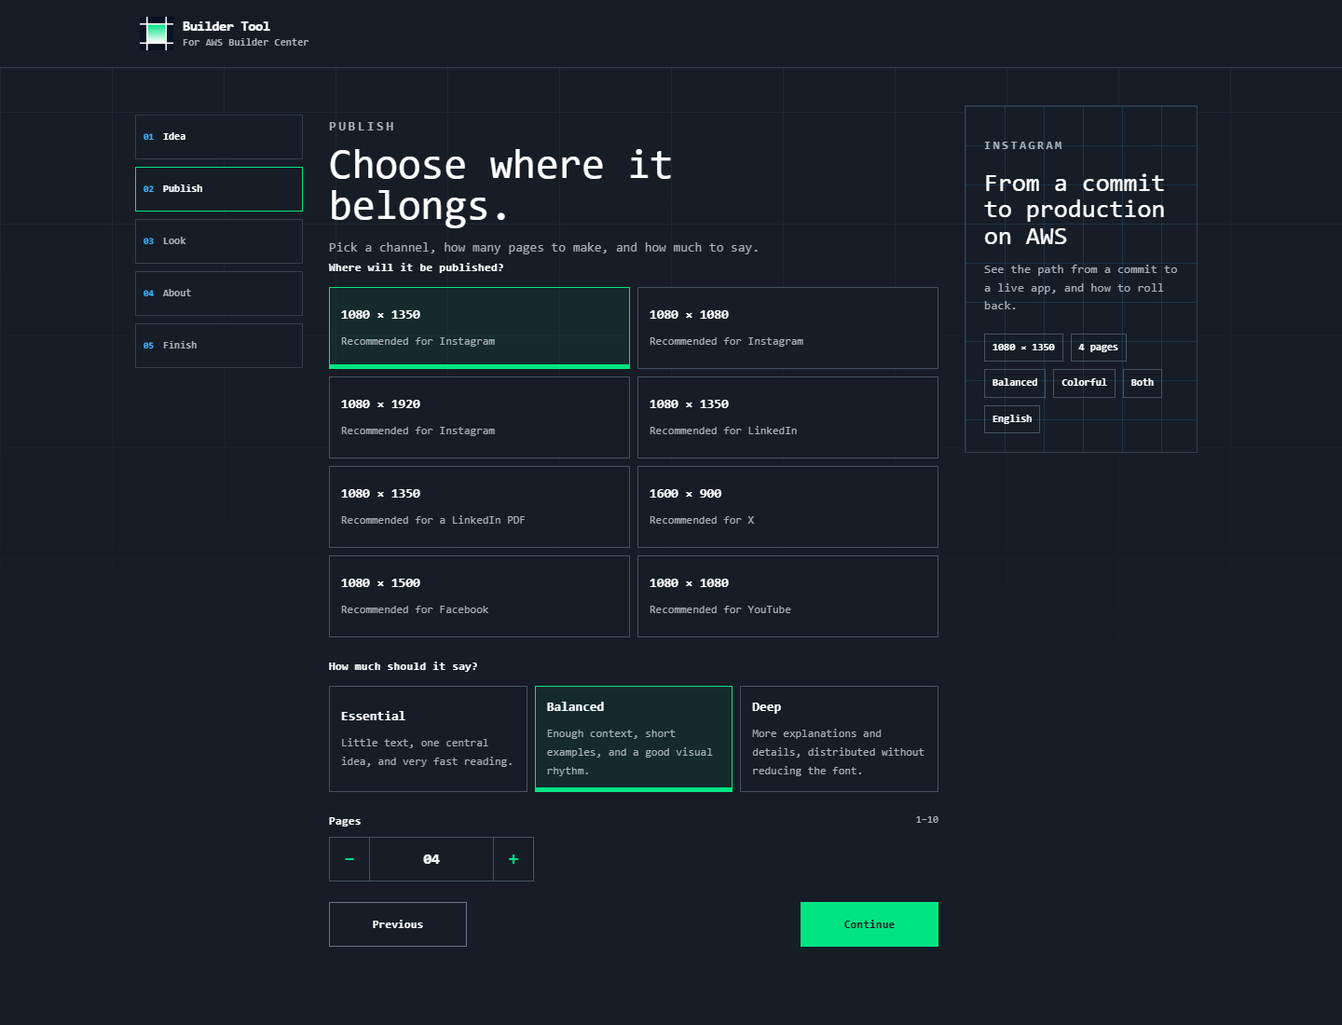
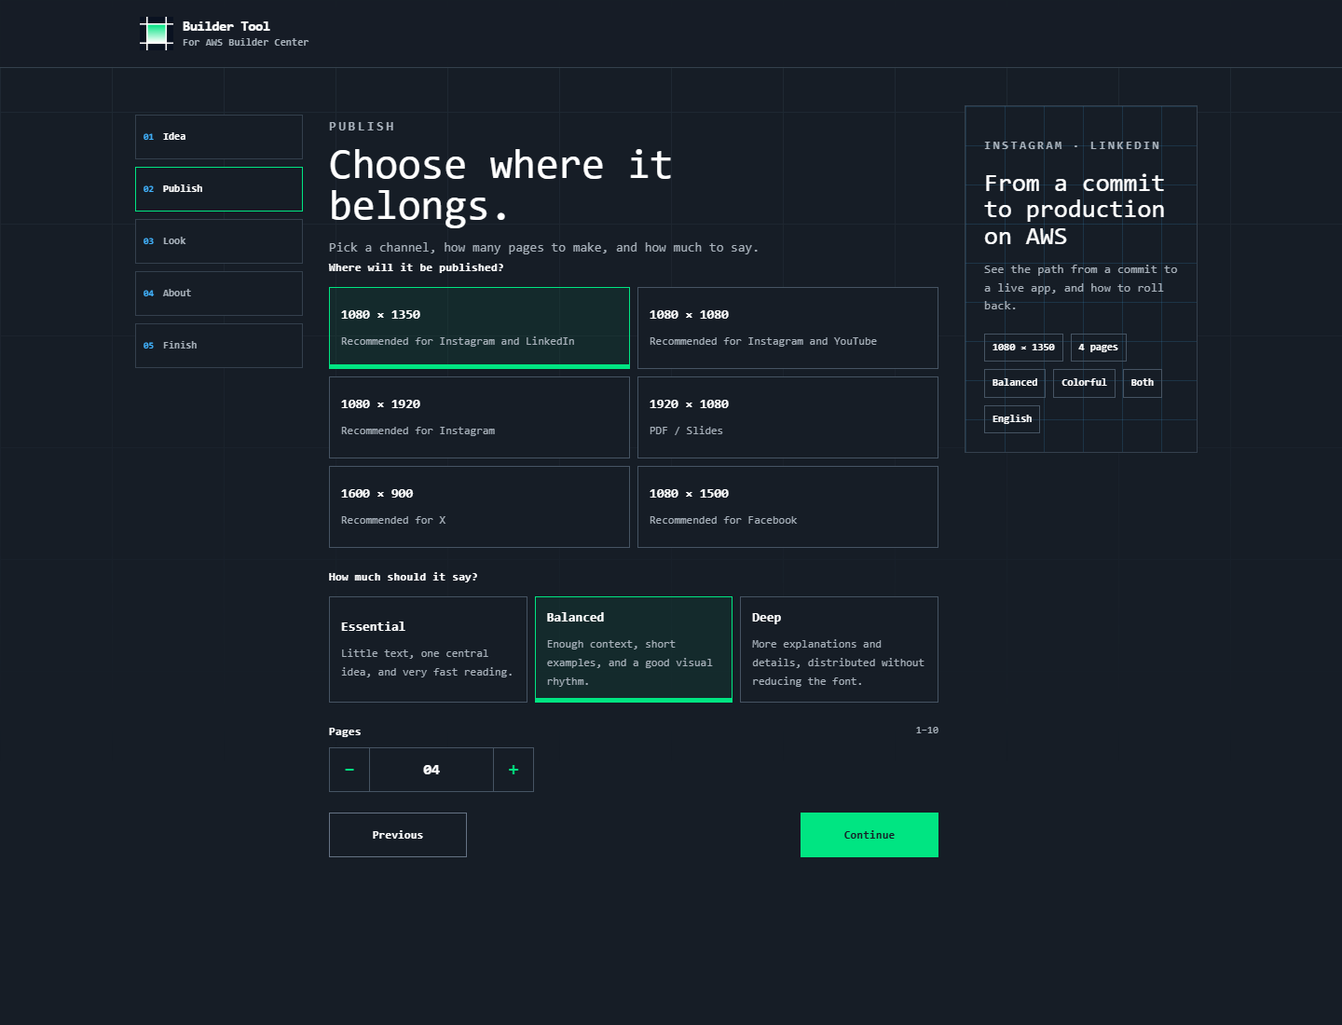
feat: new resolution, and notes

diff --git a/web/src/index.css b/web/src/index.css
@@ -67,6 +67,8 @@ button:disabled { cursor: not-allowed; opacity: .48; }
   padding: 10px 20px;
 }
 .header-actions { display: flex; flex-wrap: wrap; align-items: center; justify-content: flex-end; gap: 8px; }
+.header-github { display: inline-flex; align-items: center; min-height: 40px; padding: 0 12px; color: #fff; font-size: 12px; font-weight: 800; text-decoration: none; }
+.header-github:hover, .header-github:focus-visible { color: #00e582; outline: 0; }
 .header-cta { display: none; }
 .header-actions .button-secondary { min-height: 40px; }
 .cost-card { border: 1px solid #465463; border-left: 4px solid #ff9900; background: #1d2631; padding: 16px; }
@@ -266,25 +268,22 @@ input:focus, textarea:focus, select:focus { border-color: #00e582 !important; bo
 .generated-card figcaption span:first-child { color: #00e582; font-weight: 900; }
 
 .image-viewer { position: fixed; inset: 0; z-index: 100; display: grid; place-items: center; overflow: auto; background: rgba(0, 0, 0, .84); padding: 20px; backdrop-filter: blur(3px); }
-.viewer-grid { display: grid; width: fit-content; max-width: 100%; height: auto; max-height: calc(100vh - 40px); min-height: 0; grid-template-columns: minmax(0, max-content) 220px; grid-template-rows: auto auto auto; border: 1px solid #465463; background: #10161e; box-shadow: 16px 16px 0 rgba(0, 0, 0, .28); }
+.viewer-grid { display: grid; width: fit-content; max-width: 100%; height: auto; max-height: calc(100vh - 40px); min-height: 0; grid-template-columns: minmax(0, max-content); grid-template-rows: auto auto auto; border: 1px solid #465463; background: #10161e; box-shadow: 16px 16px 0 rgba(0, 0, 0, .28); }
 .viewer-header { grid-column: 1 / -1; display: flex; align-items: center; justify-content: space-between; gap: 20px; border-bottom: 1px solid #34404d; background: #161d26; padding: 14px 16px 14px 20px; }
 .viewer-filename { margin-top: 5px; color: #aab3bd; font-size: 11px; overflow-wrap: anywhere; }
 .viewer-close { display: grid; width: 44px; height: 44px; flex: 0 0 auto; place-items: center; border: 1px solid #ff57e9; background: #ff57e9; color: #161d26; font-size: 29px; font-weight: 900; line-height: 1; }
 .viewer-close:hover, .viewer-close:focus-visible { border-color: #fff; background: #fff; outline: 0; }
-.viewer-stage { display: grid; width: fit-content; max-width: calc(100vw - 300px); min-width: 0; min-height: 0; place-items: center; overflow: hidden; padding: 20px; background-color: #161d26; background-image: linear-gradient(to right, rgba(66,180,255,.11) 1px, transparent 1px), linear-gradient(to bottom, rgba(66,180,255,.11) 1px, transparent 1px); background-size: 90px 90px; }
-.viewer-stage img { display: block; width: auto; height: auto; max-width: min(1200px, calc(100vw - 340px)); max-height: calc(100vh - 190px); object-fit: contain; box-shadow: 8px 8px 0 rgba(0,0,0,.32); }
-.viewer-downloads { min-width: 0; overflow-y: auto; border-left: 1px solid #34404d; background: #1d2631; padding: 18px 14px; scrollbar-color: #465463 #1d2631; }
-.viewer-download-list { display: grid; gap: 7px; margin-top: 15px; }
-.viewer-download-list a { display: grid; grid-template-columns: auto 1fr auto; align-items: center; gap: 9px; border: 1px solid #465463; padding: 10px; color: #fff; text-decoration: none; font-size: 10px; }
-.viewer-download-list a:hover, .viewer-download-list a:focus-visible, .viewer-download-list .viewer-download-active { border-color: #42b4ff; background: rgba(66,180,255,.09); outline: 0; }
-.viewer-download-list a span:first-child { color: #42b4ff; font-weight: 900; }
-.viewer-download-list a span:last-child { color: #00e582; font-size: 15px; }
-.viewer-navigation { grid-column: 1 / -1; display: grid; grid-template-columns: minmax(120px, 1fr) auto minmax(120px, 1fr); align-items: center; gap: 12px; border-top: 1px solid #34404d; background: #161d26; padding: 12px; }
+.viewer-stage { display: grid; width: fit-content; max-width: calc(100vw - 80px); min-width: 0; min-height: 0; place-items: center; overflow: hidden; padding: 20px; background-color: #161d26; background-image: linear-gradient(to right, rgba(66,180,255,.11) 1px, transparent 1px), linear-gradient(to bottom, rgba(66,180,255,.11) 1px, transparent 1px); background-size: 90px 90px; }
+.viewer-stage img { display: block; width: auto; height: auto; max-width: min(1200px, calc(100vw - 120px)); max-height: calc(100vh - 190px); object-fit: contain; box-shadow: 8px 8px 0 rgba(0,0,0,.32); }
+.viewer-navigation { grid-column: 1 / -1; display: grid; grid-template-columns: minmax(120px, 1fr) auto auto minmax(120px, 1fr); align-items: center; gap: 12px; border-top: 1px solid #34404d; background: #161d26; padding: 12px; }
 .viewer-navigation > span { color: #aab3bd; font-size: 10px; text-align: center; }
 .viewer-navigation button { min-height: 44px; border: 1px solid #465463; background: transparent; color: #fff; font-size: 11px; font-weight: 900; }
 .viewer-navigation button:first-child { justify-self: start; padding: 0 18px; }
 .viewer-navigation button:last-child { justify-self: end; border-color: #00e582; background: #00e582; padding: 0 18px; color: #161d26; }
 .viewer-navigation button:hover:not(:disabled), .viewer-navigation button:focus-visible { border-color: #42b4ff; background: #42b4ff; color: #161d26; outline: 0; }
+.viewer-download { position: relative; display: inline-flex; align-items: center; justify-content: center; gap: 8px; min-height: 44px; border: 1px solid #42b4ff; background: transparent; padding: 0 16px; color: #fff; font-size: 11px; font-weight: 900; text-decoration: none; }
+.viewer-download svg { width: 16px; height: 16px; flex: 0 0 auto; }
+.viewer-download:hover, .viewer-download:focus-visible { border-color: #42b4ff; background: #42b4ff; color: #161d26; outline: 0; }
 
 .gallery-loading { display: grid; grid-template-columns: 1fr; gap: 12px; }
 .gallery-loading p { color: #00e582; font-size: 12px; text-align: center; }
@@ -297,7 +296,10 @@ input:focus, textarea:focus, select:focus { border-color: #00e582 !important; bo
 .download-file b { overflow: hidden; text-overflow: ellipsis; white-space: nowrap; }
 
 .landing, .result-page, .creator-layout { width: min(1180px, 100%); margin: 0 auto; }
-.landing { display: grid; gap: 72px; padding: 48px 20px 80px; }
+.landing { display: grid; gap: 72px; padding: 28px 20px 80px; }
+.landing-top { display: grid; gap: 28px; }
+.home-notice { display: grid; gap: 8px; border: 1px solid #34404d; border-left: 4px solid #42b4ff; background: rgba(29, 38, 49, .92); padding: 16px 18px; }
+.home-notice p:last-child { max-width: 78ch; color: #d5dde4; font-size: 14px; line-height: 1.6; }
 .hero { display: grid; gap: 28px; align-items: stretch; }
 .hero-copy, .mosaic, .mosaic-card { min-width: 0; }
 .page-lede { max-width: 42rem; margin-top: 18px; color: #aab3bd; font-size: 16px; line-height: 1.7; }
@@ -430,15 +432,12 @@ input:focus, textarea:focus, select:focus { border-color: #00e582 !important; bo
   .image-viewer { padding: 0; }
   .viewer-grid { width: 100%; max-height: none; min-height: 100dvh; grid-template-columns: minmax(0, 1fr); grid-template-rows: auto auto auto auto; border: 0; box-shadow: none; }
   .viewer-stage { width: 100%; max-width: 100%; padding: 12px; }
-  .viewer-stage img { max-width: 100%; max-height: calc(100dvh - 245px); }
-  .viewer-downloads { grid-row: 3; display: flex; align-items: center; gap: 12px; overflow-x: auto; border-top: 1px solid #34404d; border-left: 0; padding: 10px 12px; }
-  .viewer-downloads > .eyebrow { flex: 0 0 auto; }
-  .viewer-download-list { display: flex; flex: 0 0 auto; margin: 0; }
-  .viewer-download-list a { min-width: 74px; }
-  .viewer-navigation { grid-row: 4; padding: 10px; }
+  .viewer-stage img { max-width: 100%; max-height: calc(100dvh - 160px); }
+  .viewer-navigation { grid-row: 3; grid-template-columns: 1fr auto 1fr; padding: 10px; }
   .viewer-navigation > span { display: none; }
-  .viewer-navigation { grid-template-columns: 1fr 1fr; }
   .viewer-navigation button { width: 100%; justify-self: stretch !important; }
+  .viewer-download { width: 44px; height: 44px; min-height: 44px; padding: 0; }
+  .viewer-download span { position: absolute; width: 1px; height: 1px; margin: -1px; overflow: hidden; clip: rect(0, 0, 0, 0); white-space: nowrap; }
 }
 
 .mini-button { min-height: 36px; border: 1px solid #465463; background: transparent; padding: 0 12px; color: #fff; font-size: 11px; font-weight: 800; }

diff --git a/web/src/i18n/locales/pt-BR.ts b/web/src/i18n/locales/pt-BR.ts
@@ -13,6 +13,7 @@ const ptBR: Messages = {
     start: 'Começar um post',
     viewPosts: 'Ver posts',
     edit: 'Editar briefing',
+    github: 'GitHub',
   },
   landing: {
     eyebrow: 'Builder Center',
@@ -20,6 +21,8 @@ const ptBR: Messages = {
     lede: 'Transforme um briefing curto em posts prontos para os canais onde você compartilha o que está construindo.',
     start: 'Começar um post',
     note: 'Cinco passos curtos. Nada técnico nesta página.',
+    noticeEyebrow: 'Nota',
+    notice: 'O Builder Tool está aqui para agregar ao AWS Builder Center. Ele não tenta substituir o Builder Center nem copiá-lo. O projeto é feito por participantes do projeto estudantil da AWS no Brasil.',
     unavailable: 'Não dá para criar posts agora.',
     channelsEyebrow: 'Onde publicar',
     channelsTitle: 'Publique onde a conversa já acontece.',
@@ -89,8 +92,8 @@ const ptBR: Messages = {
   publish: {
     where: 'Onde será publicado?',
     whereLabel: 'Formato de publicação',
-    recommended: (channel: string) => `Recomendado para ${channel}`,
-    recommendedPdf: 'Recomendado para PDF no LinkedIn',
+    recommended: (channels: readonly string[]) => `Recomendado para ${channels.length === 2 ? `${channels[0]} e ${channels[1]}` : channels.join(', ')}`,
+    pdfSlides: 'PDF / Slides',
     depth: 'Quanto ele deve dizer?',
     depthLabel: 'Nível de informação',
     pages: 'Páginas',
@@ -103,7 +106,7 @@ const ptBR: Messages = {
     'instagram-square': 'Quadrado',
     'instagram-story': 'Stories',
     'linkedin-portrait': 'Retrato',
-    'linkedin-document': 'Documento PDF',
+    'linkedin-document': 'PDF / Slides',
     'x-landscape': 'Paisagem',
     'facebook-portrait': 'Retrato',
     'youtube-community': 'Comunidade',
@@ -212,7 +215,7 @@ const ptBR: Messages = {
     label: (index: number, total: number) => `Visualizador, imagem ${index} de ${total}`,
     heading: (index: number, total: number) => `Post ${String(index).padStart(2, '0')} / ${String(total).padStart(2, '0')}`,
     close: 'Fechar visualizador',
-    download: 'Baixar imagem',
+    download: 'Baixar',
     downloads: 'Baixar imagens',
     alt: (index: number) => `Post gerado ${index}`,
     back: 'Voltar',

diff --git a/web/src/i18n/locales/en.ts b/web/src/i18n/locales/en.ts
@@ -11,6 +11,7 @@ const en = {
     start: 'Start a post',
     viewPosts: 'View posts',
     edit: 'Edit brief',
+    github: 'GitHub',
   },
   landing: {
     eyebrow: 'Builder Center',
@@ -18,6 +19,8 @@ const en = {
     lede: 'Turn a short brief into a set of posts for the channels where you share what you\'re building.',
     start: 'Start a post',
     note: 'Five short steps. No technical setup on this page.',
+    noticeEyebrow: 'Note',
+    notice: 'Builder Tool is here to add to AWS Builder Center. It does not try to replace Builder Center or to copy it. The project is made by participants of the AWS student project in Brazil.',
     unavailable: 'Creating posts isn\'t available right now.',
     channelsEyebrow: 'Where it can go',
     channelsTitle: 'Publish where the conversation already is.',
@@ -87,8 +90,8 @@ const en = {
   publish: {
     where: 'Where will it be published?',
     whereLabel: 'Publication format',
-    recommended: (channel: string) => `Recommended for ${channel}`,
-    recommendedPdf: 'Recommended for a LinkedIn PDF',
+    recommended: (channels: readonly string[]) => `Recommended for ${channels.length === 2 ? `${channels[0]} and ${channels[1]}` : channels.join(', ')}`,
+    pdfSlides: 'PDF / Slides',
     depth: 'How much should it say?',
     depthLabel: 'Information level',
     pages: 'Pages',
@@ -101,7 +104,7 @@ const en = {
     'instagram-square': 'Square',
     'instagram-story': 'Stories',
     'linkedin-portrait': 'Portrait',
-    'linkedin-document': 'PDF document',
+    'linkedin-document': 'PDF / Slides',
     'x-landscape': 'Landscape',
     'facebook-portrait': 'Portrait',
     'youtube-community': 'Community',
@@ -210,7 +213,7 @@ const en = {
     label: (index: number, total: number) => `Post viewer, image ${index} of ${total}`,
     heading: (index: number, total: number) => `Post ${String(index).padStart(2, '0')} / ${String(total).padStart(2, '0')}`,
     close: 'Close viewer',
-    download: 'Download image',
+    download: 'Download',
     downloads: 'Download images',
     alt: (index: number) => `Generated post ${index}`,
     back: 'Back',

diff --git a/web/src/constants.ts b/web/src/constants.ts
@@ -8,11 +8,24 @@ export const formats: Array<{ value: Platform; dimensions: string; channel: stri
   { value: 'instagram-square', dimensions: '1080 × 1080', channel: 'Instagram' },
   { value: 'instagram-story', dimensions: '1080 × 1920', channel: 'Instagram' },
   { value: 'linkedin-portrait', dimensions: '1080 × 1350', channel: 'LinkedIn' },
-  { value: 'linkedin-document', dimensions: '1080 × 1350', channel: 'LinkedIn' },
+  { value: 'linkedin-document', dimensions: '1920 × 1080', channel: 'LinkedIn' },
   { value: 'x-landscape', dimensions: '1600 × 900', channel: 'X' },
   { value: 'facebook-portrait', dimensions: '1080 × 1500', channel: 'Facebook' },
   { value: 'youtube-community', dimensions: '1080 × 1080', channel: 'YouTube' },
 ]
+
+export const formatChoices: Array<{ id: string; values: Platform[]; dimensions: string; channels: string[]; pdf?: boolean }> = [
+  { id: 'portrait', values: ['instagram-portrait', 'linkedin-portrait'], dimensions: '1080 × 1350', channels: ['Instagram', 'LinkedIn'] },
+  { id: 'square', values: ['instagram-square', 'youtube-community'], dimensions: '1080 × 1080', channels: ['Instagram', 'YouTube'] },
+  { id: 'story', values: ['instagram-story'], dimensions: '1080 × 1920', channels: ['Instagram'] },
+  { id: 'pdf', values: ['linkedin-document'], dimensions: '1920 × 1080', channels: [], pdf: true },
+  { id: 'landscape', values: ['x-landscape'], dimensions: '1600 × 900', channels: ['X'] },
+  { id: 'facebook', values: ['facebook-portrait'], dimensions: '1080 × 1500', channels: ['Facebook'] },
+]
+
+export function choiceFor(platform: Platform) {
+  return formatChoices.find((choice) => choice.values.includes(platform)) ?? formatChoices[0]
+}
 
 export const contentLevels: ContentLevel[] = ['essential', 'balanced', 'deep']
 

diff --git a/web/src/components/gallery/ImageViewer.tsx b/web/src/components/gallery/ImageViewer.tsx
@@ -51,29 +51,16 @@ export function ImageViewer({ images, index, onChange, onClose }: ImageViewerPro
           <img src={current.url} alt={`${t.viewer.alt(index + 1)}: ${current.name}`} />
         </div>
 
-        <aside className="viewer-downloads app-scrollbar" aria-label={t.viewer.downloads}>
-          <p className="eyebrow text-blue">{t.viewer.download}</p>
-          <div className="viewer-download-list">
-            {images.map((image, imageIndex) => (
-              <a
-                key={image.url}
-                className={imageIndex === index ? 'viewer-download-active' : ''}
-                href={image.url}
-                download={image.name.split('/').pop()}
-                onClick={() => onChange(imageIndex)}
-              >
-                <span>{String(imageIndex + 1).padStart(2, '0')}</span>
-                <b>PNG</b>
-                <span aria-hidden="true">↓</span>
-              </a>
-            ))}
-          </div>
-        </aside>
-
         <footer className="viewer-navigation">
           <button type="button" onClick={previous} disabled={images.length < 2}>
             <span aria-hidden="true">←</span> {t.viewer.back}
           </button>
+          <a className="viewer-download" href={current.url} download={current.name.split('/').pop()}>
+            <svg viewBox="0 0 16 16" aria-hidden="true">
+              <path d="M8 1.5v8M5 7.5 8 10.5 11 7.5M2.5 13.5h11" fill="none" stroke="currentColor" strokeWidth="1.6" strokeLinecap="square" />
+            </svg>
+            <span>{t.viewer.download}</span>
+          </a>
           <span>{current.width} × {current.height}</span>
           <button type="button" onClick={next} disabled={images.length < 2}>
             {t.viewer.next} <span aria-hidden="true">→</span>

diff --git a/web/src/components/form/ReviewStep.tsx b/web/src/components/form/ReviewStep.tsx
@@ -1,17 +1,17 @@
-import { colorThemes, contentLevels, creatorStepIds, formats, pageThemes } from '../../constants'
+import { choiceFor, colorThemes, contentLevels, creatorStepIds, pageThemes } from '../../constants'
 import { useI18n } from '../../i18n/context'
 import type { GenerateRequest } from '../../types'
 
 export function ReviewStep({ form, onEdit }: { form: GenerateRequest; onEdit: (step: number) => void }) {
   const { t } = useI18n()
-  const format = formats.find((item) => item.value === form.platform) ?? formats[0]
+  const format = choiceFor(form.platform)
   const depth = contentLevels.find((item) => item === form.contentLevel)
   const color = colorThemes.find((item) => item === form.colorTheme)
   const appearance = pageThemes.find((item) => item === form.pageTheme)
   const labels = [t.review.idea, t.review.publish, t.review.look, t.review.about, t.review.finish]
   const summary = [
     form.theme.trim() || t.review.topicMissing,
-    `${format.dimensions} · ${format.value === 'linkedin-document' ? t.publish.recommendedPdf : t.publish.recommended(format.channel)} · ${t.review.pages(form.postCount)} · ${depth ? t.levels[depth].label : ''}`,
+    `${format.dimensions} · ${format.pdf ? t.publish.pdfSlides : t.publish.recommended(format.channels)} · ${t.review.pages(form.postCount)} · ${depth ? t.levels[depth].label : ''}`,
     `${color ? t.colors[color] : ''} · ${appearance ? t.appearance[appearance].label : ''} · ${form.language}`,
     form.useAboutFooter ? (form.aboutName.trim() || t.review.nameMissing) : t.review.footerOff,
     form.cta.trim() || t.review.ctaMissing,

diff --git a/web/src/components/pages/CreatorPage.tsx b/web/src/components/pages/CreatorPage.tsx
@@ -1,5 +1,5 @@
 import { useEffect, type FormEvent } from 'react'
-import { canVisitStep, colorThemes, contentLevels, creatorStepIds, formats, pageThemes } from '../../constants'
+import { canVisitStep, choiceFor, colorThemes, contentLevels, creatorStepIds, pageThemes } from '../../constants'
 import { useI18n } from '../../i18n/context'
 import { BriefForm } from '../form/BriefForm'
 import type { AppConfig, GenerateRequest } from '../../types'
@@ -32,7 +32,7 @@ export function CreatorPage({
   const { t } = useI18n()
   const stepId = creatorStepIds[step]
   const current = t.steps[stepId]
-  const format = formats.find((item) => item.value === form.platform) ?? formats[0]
+  const format = choiceFor(form.platform)
   const depth = contentLevels.find((item) => item === form.contentLevel)
   const color = colorThemes.find((item) => item === form.colorTheme)
   const appearance = pageThemes.find((item) => item === form.pageTheme)
@@ -90,7 +90,7 @@ export function CreatorPage({
 
         <aside className="creator-aside" aria-label={t.creator.summaryLabel}>
           <article className="brief-preview">
-            <p className="eyebrow text-green">{format.channel}</p>
+            <p className="eyebrow text-green">{format.pdf ? t.publish.pdfSlides : format.channels.join(' · ')}</p>
             <h2>{form.theme.trim() || t.creator.previewTitle}</h2>
             <p>{form.goal.trim() || t.creator.previewGoal}</p>
             <ul>

diff --git a/web/src/components/form/FormatSection.tsx b/web/src/components/form/FormatSection.tsx
@@ -1,4 +1,4 @@
-import { contentLevels, formats } from '../../constants'
+import { contentLevels, formatChoices } from '../../constants'
 import { useI18n } from '../../i18n/context'
 import { ChoiceCard } from '../ui/ChoiceCard'
 import { Field } from '../ui/Field'
@@ -18,11 +18,11 @@ export function FormatSection({ form, onUpdate }: FormatSectionProps) {
       <fieldset>
         <legend className="field-label mb-3">{t.publish.where}</legend>
         <div className="format-grid" role="radiogroup" aria-label={t.publish.whereLabel}>
-          {formats.map((format) => (
-            <ChoiceCard key={format.value} selected={form.platform === format.value} onSelect={() => onUpdate('platform', format.value)}>
-              <strong className="block text-sm">{format.dimensions}</strong>
+          {formatChoices.map((choice) => (
+            <ChoiceCard key={choice.id} selected={choice.values.includes(form.platform)} onSelect={() => onUpdate('platform', choice.values[0])}>
+              <strong className="block text-sm">{choice.dimensions}</strong>
               <span className="mt-2 block text-xs leading-5 text-muted-light">
-                {format.value === 'linkedin-document' ? t.publish.recommendedPdf : t.publish.recommended(format.channel)}
+                {choice.pdf ? t.publish.pdfSlides : t.publish.recommended(choice.channels)}
               </span>
             </ChoiceCard>
           ))}

diff --git a/web/src/components/pages/LandingPage.tsx b/web/src/components/pages/LandingPage.tsx
@@ -17,7 +17,12 @@ export function LandingPage({ config, canCreate, error, onStart }: LandingPagePr
 
   return (
     <main className="landing">
-      <section className="hero">
+      <div className="landing-top">
+        <aside className="home-notice" role="note">
+          <p className="eyebrow text-blue">{t.landing.noticeEyebrow}</p>
+          <p>{t.landing.notice}</p>
+        </aside>
+        <section className="hero">
         <div className="hero-copy">
           <p className="eyebrow text-pink">{t.landing.eyebrow}</p>
           <h1 className="display-title">{t.landing.title}</h1>
@@ -46,7 +51,8 @@ export function LandingPage({ config, canCreate, error, onStart }: LandingPagePr
             <h2>{t.landing.mosaic.lookTitle}</h2>
           </article>
         </div>
-      </section>
+        </section>
+      </div>
 
       <section className="landing-section" aria-labelledby="channels-title">
         <div className="section-heading">

diff --git a/web/src/components/layout/AppShell.tsx b/web/src/components/layout/AppShell.tsx
@@ -43,6 +43,11 @@ export function SiteHeader({
         </button>
         <div className="header-actions">
           {view === 'landing' && (
+            <a className="header-github" href="https://github.com/pedroborgesdev/awsbuildertool" target="_blank" rel="noreferrer">
+              {t.header.github} <span aria-hidden="true">↗</span>
+            </a>
+          )}
+          {view === 'landing' && (
             <Button className="header-cta" onClick={onStart} disabled={!canCreate}>
               {t.header.start}
             </Button>

diff --git a/internal/render/python/engine.py b/internal/render/python/engine.py
@@ -22,13 +22,13 @@ VERSION = "5.2.0"
 FORMATS = {
     "instagram-portrait": (1080, 1350), "instagram-square": (1080, 1080),
     "instagram-story": (1080, 1920), "linkedin-portrait": (1080, 1350),
-    "linkedin-document": (1080, 1350), "x-landscape": (1600, 900),
+    "linkedin-document": (1920, 1080), "x-landscape": (1600, 900),
     "facebook-portrait": (1200, 1500), "youtube-community": (1080, 1080),
 }
 COLORS = {"ink": "#161D26", "paper": "#F8F8FA", "white": "#FFFFFF", "line_dark": "#2B3542",
           "line_light": "#DEDEE3", "green": "#00E582", "pink": "#FF57E9", "blue": "#42B4FF",
           "purple": "#AD5CFF", "orange": "#FF9900"}
-GRID_MODULES = {1080: 120, 1200: 120, 1600: 100}
+GRID_MODULES = {1080: 120, 1200: 120, 1600: 100, 1920: 120}
 
 
 def normalize(value):
@@ -169,6 +169,7 @@ class Page:
     def __init__(self, width, height, dark, design, number, accent_name=None):
         self.w, self.h, self.dark, self.design, self.number = width, height, dark, design, number
         # Coarse modular grid: nine columns at the primary 1080px formats.
+        # 1920×1080 uses the same 120px cell, which lands on 16 square columns.
         # The module stays integral so every structural cell remains square.
         self.g = GRID_MODULES.get(width,max(1,width//9))
         # Landscape width is not extra vertical space for larger type.

diff --git a/internal/render/python/engine_test.py b/internal/render/python/engine_test.py
@@ -289,7 +289,7 @@ class EngineTests(unittest.TestCase):
 
     def test_coarse_grid_uses_nine_primary_columns(self):
         expected={(1080,1080):(120,9),(1080,1350):(120,9),(1080,1920):(120,9),
-                  (1200,1500):(120,10),(1600,900):(100,16)}
+                  (1200,1500):(120,10),(1600,900):(100,16),(1920,1080):(120,16)}
         for size,(module,columns) in expected.items():
             with self.subTest(size=size):
                 p=Page(*size,True,self.design,1)
@@ -399,7 +399,7 @@ class EngineTests(unittest.TestCase):
                   ("Certify yourself","Community badges and projects.","trophy"),
                   ("Innovate","Challenges to grow your skills.","lightning")]],
               "cta":"Join Builder Center","iconIntent":"community"}
-        for size in ((1080,1080),(1080,1350),(1080,1920),(1600,900)):
+        for size in ((1080,1080),(1080,1350),(1080,1920),(1600,900),(1920,1080)):
             with self.subTest(size=size):
                 result=render_page(page,0,1,size,self.design)
                 self.assertFalse(overlap(result.regions["item-5"]["box"],result.regions["cta"]["box"]))
